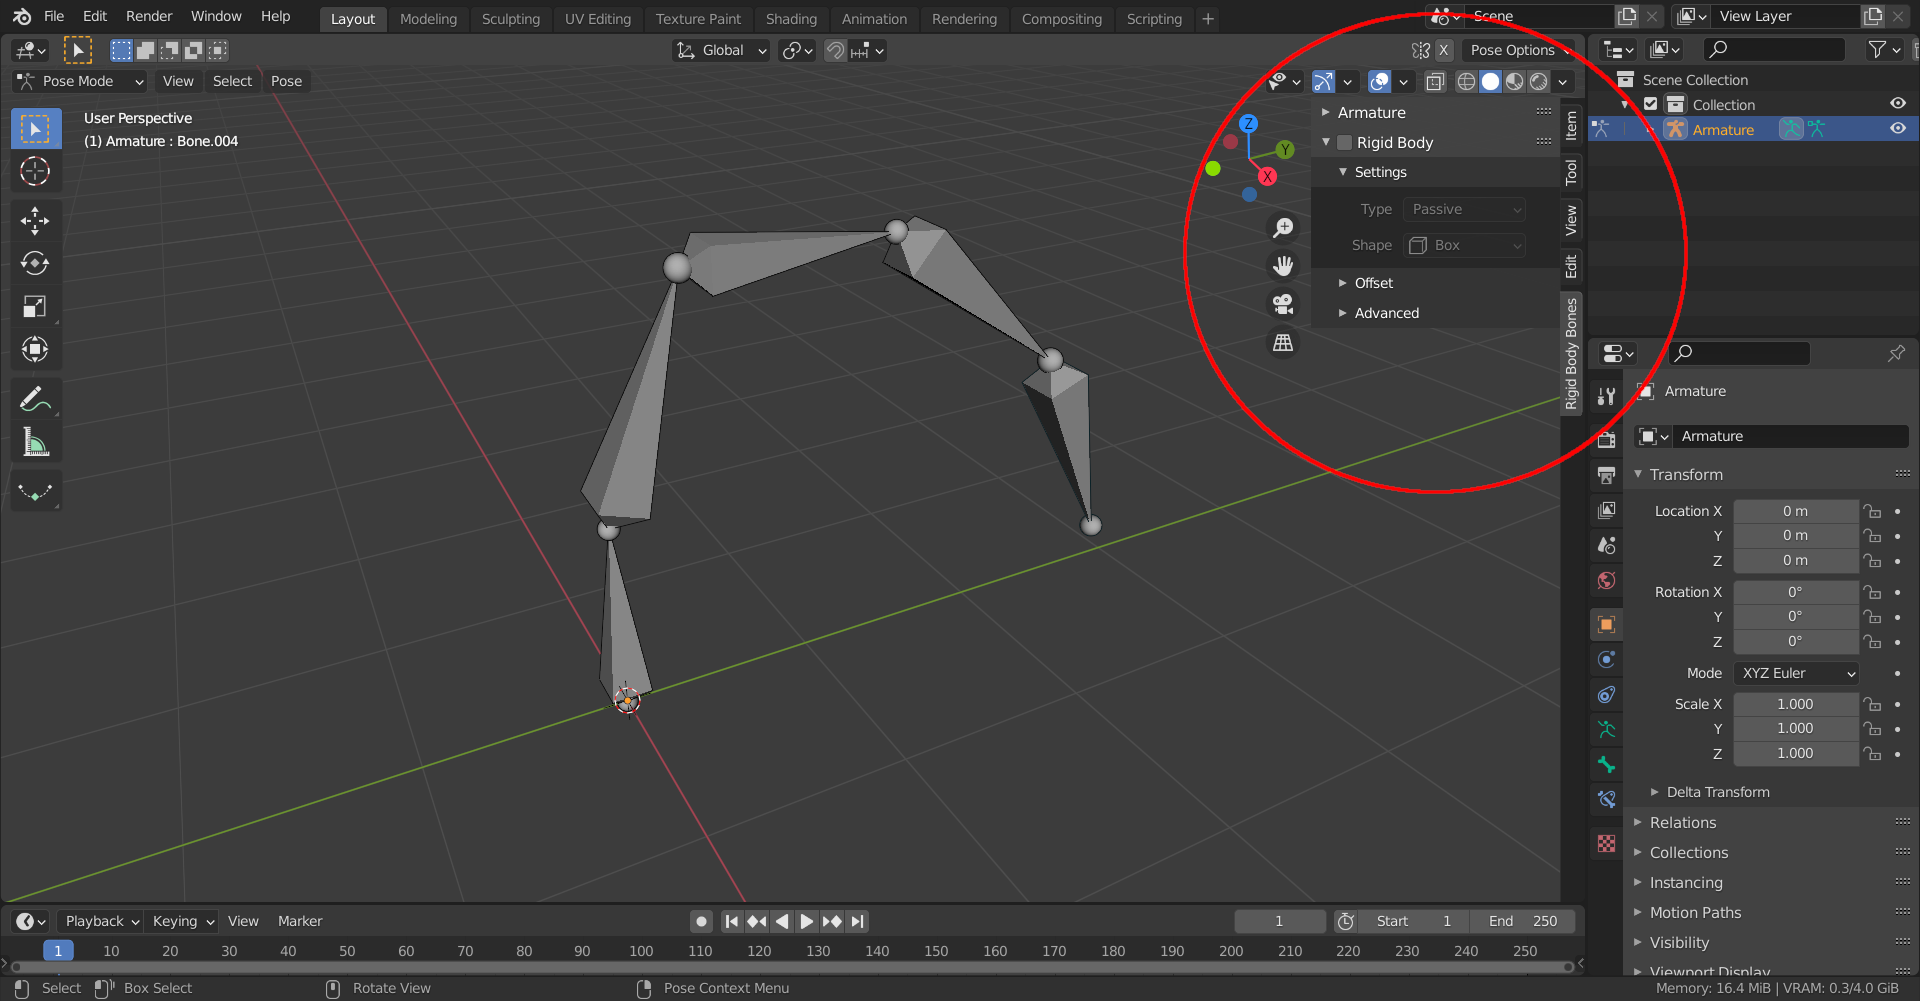
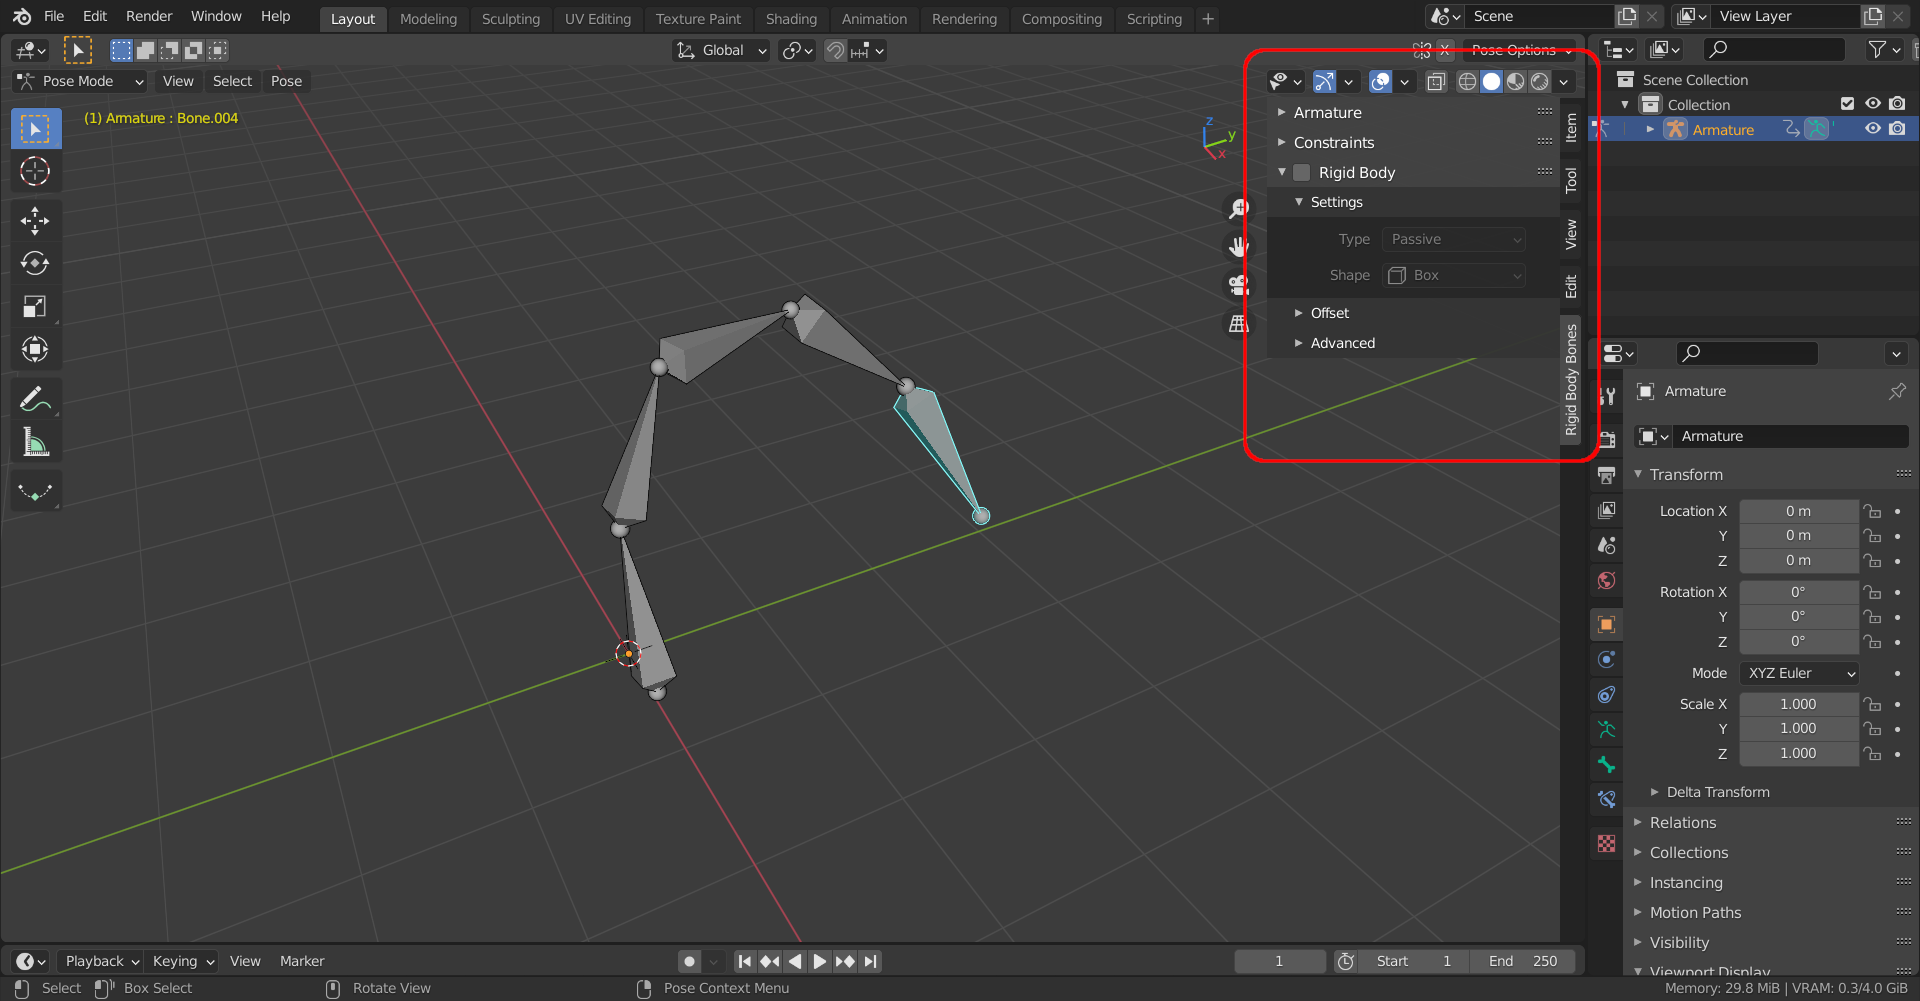
Updating README

diff --git a/README.md b/README.md
@@ -2,10 +2,13 @@
 
 ![][simplegif]
 
+![][marionettegif]
+
 ![][kizunagif]
 
 [simplegif]: https://raw.githubusercontent.com/Pauan/blender-rigid-body-bones/master/Simple.gif
 [kizunagif]: https://raw.githubusercontent.com/Pauan/blender-rigid-body-bones/master/Kizuna%20AI.gif
+[marionettegif]: https://raw.githubusercontent.com/Pauan/blender-rigid-body-bones/master/Marionette.gif
 
 3D engines have support for bone physics, this can be used for a wide variety of things:
 
@@ -142,12 +145,19 @@ You must have Blender 2.91.0 or higher.
 
    * `Bake to Keyframes` will bake the selected bones into keyframes, so they can be used in other engines.
 
+* There is a `Constraints` panel which allows you to create joints between a bone and another rigid body (or another bone):
+
+   ![][usage07]
+
+   This can be used for advanced features like IK, or circular dependencies. See the `Constraints.blend`, `IK.blend`, and `Marionette.blend` examples.
+
 [usage01]: https://raw.githubusercontent.com/Pauan/blender-rigid-body-bones/master/Usage%2001.PNG
 [usage02]: https://raw.githubusercontent.com/Pauan/blender-rigid-body-bones/master/Usage%2002.PNG
 [usage03]: https://raw.githubusercontent.com/Pauan/blender-rigid-body-bones/master/Usage%2003.PNG
 [usage04]: https://raw.githubusercontent.com/Pauan/blender-rigid-body-bones/master/Usage%2004.PNG
 [usage05]: https://raw.githubusercontent.com/Pauan/blender-rigid-body-bones/master/Usage%2005.PNG
 [usage06]: https://raw.githubusercontent.com/Pauan/blender-rigid-body-bones/master/Usage%2006.PNG
+[usage07]: https://raw.githubusercontent.com/Pauan/blender-rigid-body-bones/master/Usage%2007.PNG
 
 
 ## For programmers
